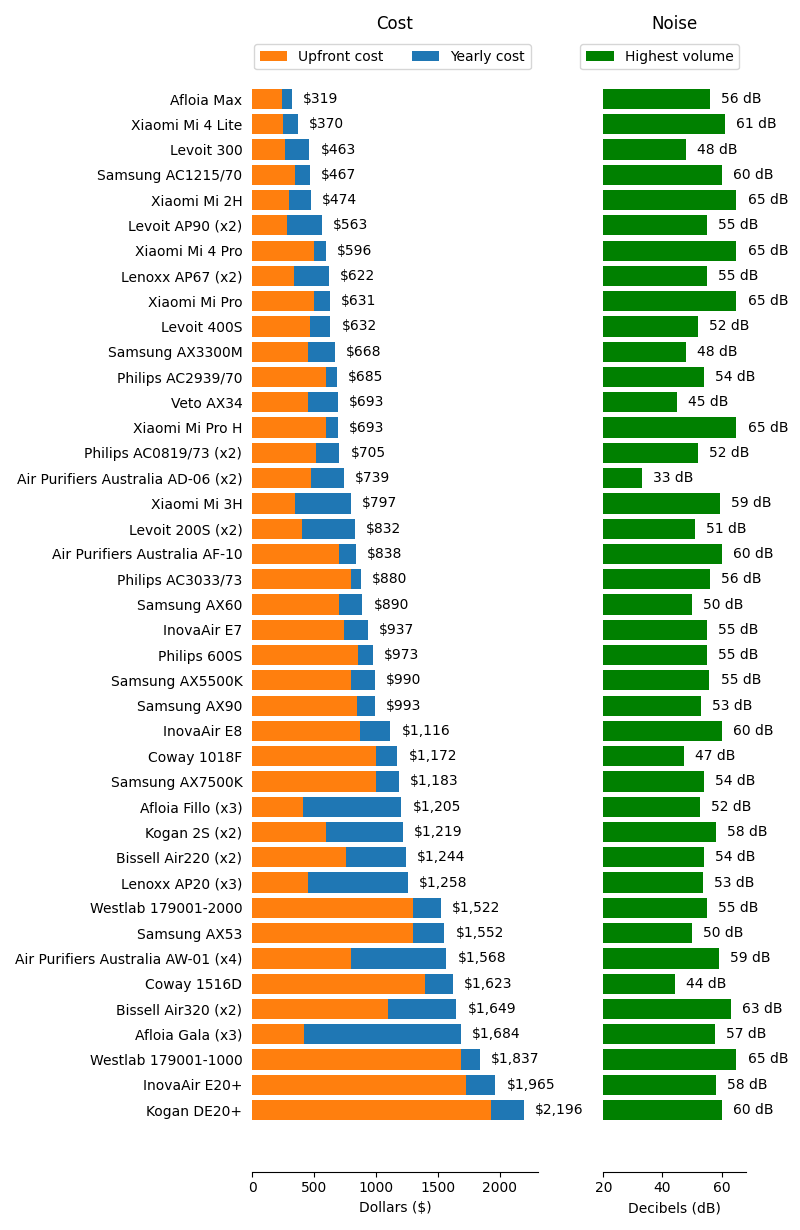
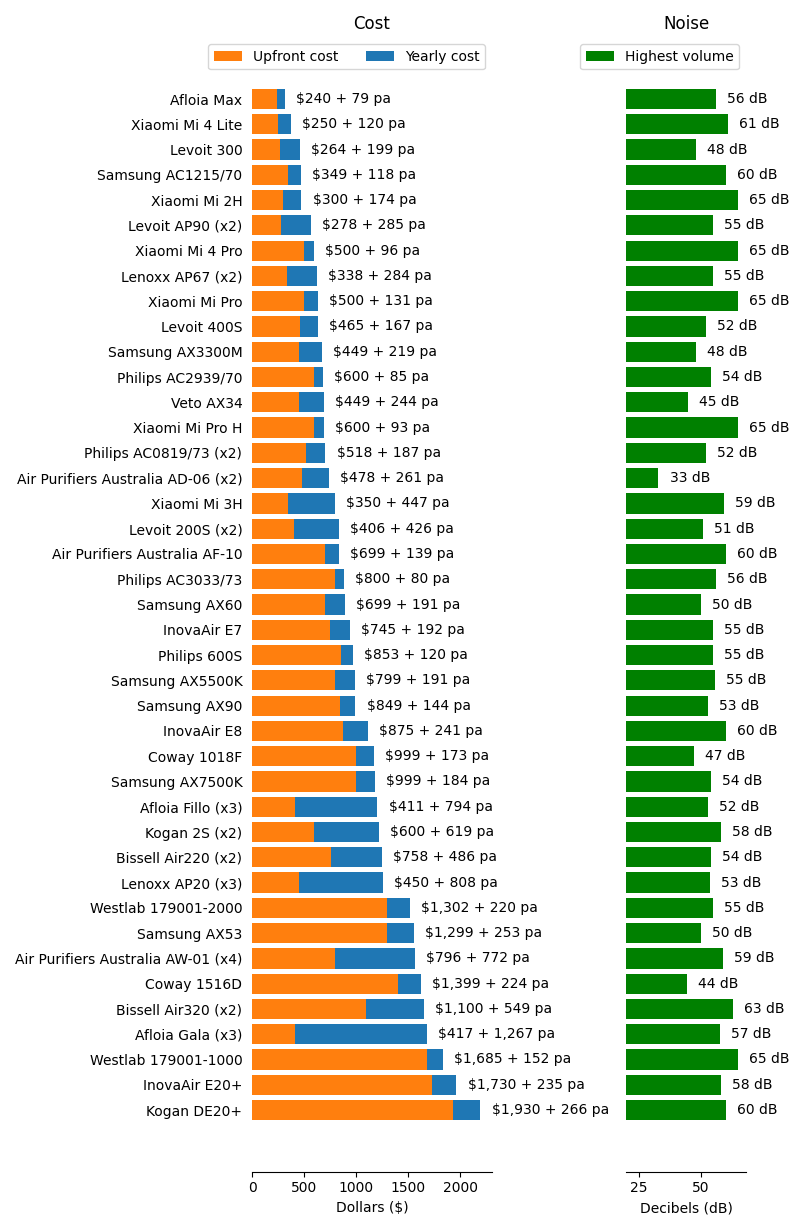
Quick push

diff --git a/products/costanalysis_chartselector.html b/products/costanalysis_chartselector.html
@@ -18,18 +18,20 @@
     <form id='userinput' style="background-color:#deeffc">
         <fieldset id="volumeoptions">
             <p>How big is the room you want to put your air purifier in?</p>
+
             <input type="radio" id='smallop' value="small" name="volume" onClick="update(this.form)">
             <label for="smallop">Small (37m3)</label>
-            <input type="radio" id='mediumop' value="medium" name="volume" onClick="update(this.form)">
+            <input type="radio" id='mediumop' value="medium" name="volume" checked onClick="update(this.form)">
             <label for="mediumop">Medium (78m3)</label>
             <input type="radio" id='largeop' value="large" name="volume" onClick="update(this.form)">
             <label for="largeop">Large (155m3)</label>
         </fieldset>
         <fieldset id="qualityoptions">
             <p>How high do you want the air quality to be in this room?</p>
+
             <input type="radio" id='poorop' value="poor" name="quality" onClick="update(this.form)">
             <label for="poorop">Poor (4ACH)</label>
-            <input type="radio" id='goodop' value="good" name="quality" onClick="update(this.form)">
+            <input type="radio" id='goodop' value="good" name="quality" checked onClick="update(this.form)">
             <label for="goodop">Good (6ACH)</label>
             <input type="radio" id='excellentop' value="excellent" name="quality" onClick="update(this.form)">
             <label for="excellentop">Excellent (9ACH)</label>

diff --git a/aircleaning/produce.py b/aircleaning/produce.py
@@ -28,7 +28,20 @@ def cost_analysis(volume, quality, path=productsdir, name='default'):
             (f' (x{n})' if n>1 else '' for n in data['nunits']),
             )
         ))
-    dollarlabels = tuple(data['nominal'].astype(int).apply('${:,}'.format))
+    # dollarlabels = tuple(map(' + '.join, zip(
+    #     data['upfront'].astype(int).apply('${:,}'.format),
+    #     data['running'].astype(int).apply('${:,} pa'.format),
+    #     )))
+    # dollarlabels = tuple(data['upfront'].astype(int).apply('${:,}'.format))
+    # import itertools
+    # dollarlabels = tuple(map(' + '.join, zip(
+    #     data['upfront'].astype(int).apply('${:,}'.format),
+    #     itertools.repeat(''),
+    #     )))
+    dollarlabels = tuple(map(' + '.join, zip(
+        data['upfront'].astype(int).apply('${:,}'.format),
+        data['running'].astype(int).apply('{:,} pa'.format),
+        )))
 
     plt.rcdefaults()
     fig, (ax1, ax2) = plt.subplots(ncols=2, gridspec_kw={'width_ratios': [2, 1]})
@@ -81,10 +94,14 @@ def cost_analysis(volume, quality, path=productsdir, name='default'):
 def make_cost_analysis_form_channel(overname, data, /):
     levels = data['levels'].astype(int)
     unit = data.attrs['units']['levels']
-    return '\n'.join('\n'.join((
-        f'''            <input type="radio" id='{name}op' value="{name}" name="{overname}" onClick="update(this.form)">''',
-        f'''            <label for="{name}op">{name.capitalize()} ({levels[name]}{unit})</label>''',
-        )) for name in data.index)
+    strn = ''
+    for i, name in enumerate(data.index):
+        checked = 'checked ' if i == 1 else ''
+        strn += '\n            ' + '\n            '.join((
+            f'''<input type="radio" id='{name}op' value="{name}" name="{overname}" {checked}onClick="update(this.form)">''',
+            f'''<label for="{name}op">{name.capitalize()} ({levels[name]}{unit})</label>''',
+            ))
+    return strn
 
 def cost_analysis_chart_selector(
         vols, quals,
